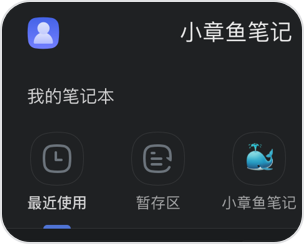
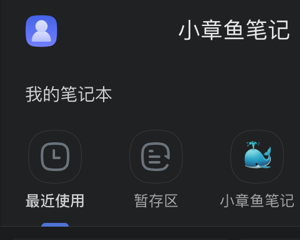
[dev] 主题 done

diff --git a/Notebook/VCs/v1/Setting/SetTheme/SetThemeVC.m b/Notebook/VCs/v1/Setting/SetTheme/SetThemeVC.m
@@ -38,15 +38,22 @@
     self.fd_prefersNavigationBarHidden = YES ;
     [SettingNavBar addInController:self] ;
     
+    
+    self.img.xt_borderColor = XT_GET_MD_THEME_COLOR_KEY_A(k_md_textColor, .1) ;
+    self.img.xt_borderWidth = .5 ;
+    self.img.xt_cornerRadius = 6. ;
+    
     self.lbTitle.xt_theme_textColor = XT_MAKE_theme_color(k_md_textColor, .8) ;
     self.lbDesc.xt_theme_textColor = XT_MAKE_theme_color(k_md_textColor, .4) ;
     self.sepLine.xt_theme_backgroundColor = XT_MAKE_theme_color(k_md_iconColor, .3) ;
     self.midBack.xt_theme_backgroundColor = k_md_backColor ;
     self.collectionView.xt_theme_backgroundColor = k_md_backColor ;
     
+    
     [ThemeCollectCell xt_registerNibFromCollection:self.collectionView] ;
     self.collectionView.dataSource = self ;
     self.collectionView.delegate = self ;
+    
     
     UICollectionViewFlowLayout *layout = [[UICollectionViewFlowLayout alloc] init] ;
     float wid = ( APP_WIDTH - 40. - 12. * 3 ) / 4. ;
@@ -56,6 +63,9 @@
     layout.sectionInset = UIEdgeInsetsMake(0, 20, 0, 20) ;
     layout.minimumLineSpacing = 0 ;
     self.collectionView.collectionViewLayout = layout ;
+    
+    
+    self.img.image = [UIImage imageNamed:XT_STR_FORMAT(@"theme_b_%@", [MDThemeConfiguration sharedInstance].currentThemeKey )] ;
 }
 
 #pragma mark - collection
@@ -98,7 +108,7 @@
     [[MDThemeConfiguration sharedInstance] changeTheme:self.themes[indexPath.row]] ;
     [self.collectionView reloadData] ;
     
-//    self.img.image = [UIImage imageNamed:XT_STR_FORMAT(<#format, ...#>)] ;
+    self.img.image = [UIImage imageNamed:XT_STR_FORMAT(@"theme_b_%@",self.themes[indexPath.row])] ;
 }
 
 

diff --git a/Notebook/VCs/v1/Setting/SetTheme/ThemeCollectCell.m b/Notebook/VCs/v1/Setting/SetTheme/ThemeCollectCell.m
@@ -18,7 +18,9 @@
     // Initialization code
     
 //    self.xt_cornerRadius = 10. ;
-    
+    self.imageView.xt_borderColor = XT_GET_MD_THEME_COLOR_KEY_A(k_md_textColor, .1) ;
+    self.imageView.xt_borderWidth = .5 ;
+    self.imageView.xt_cornerRadius = 6. ;
 }
 
 //
